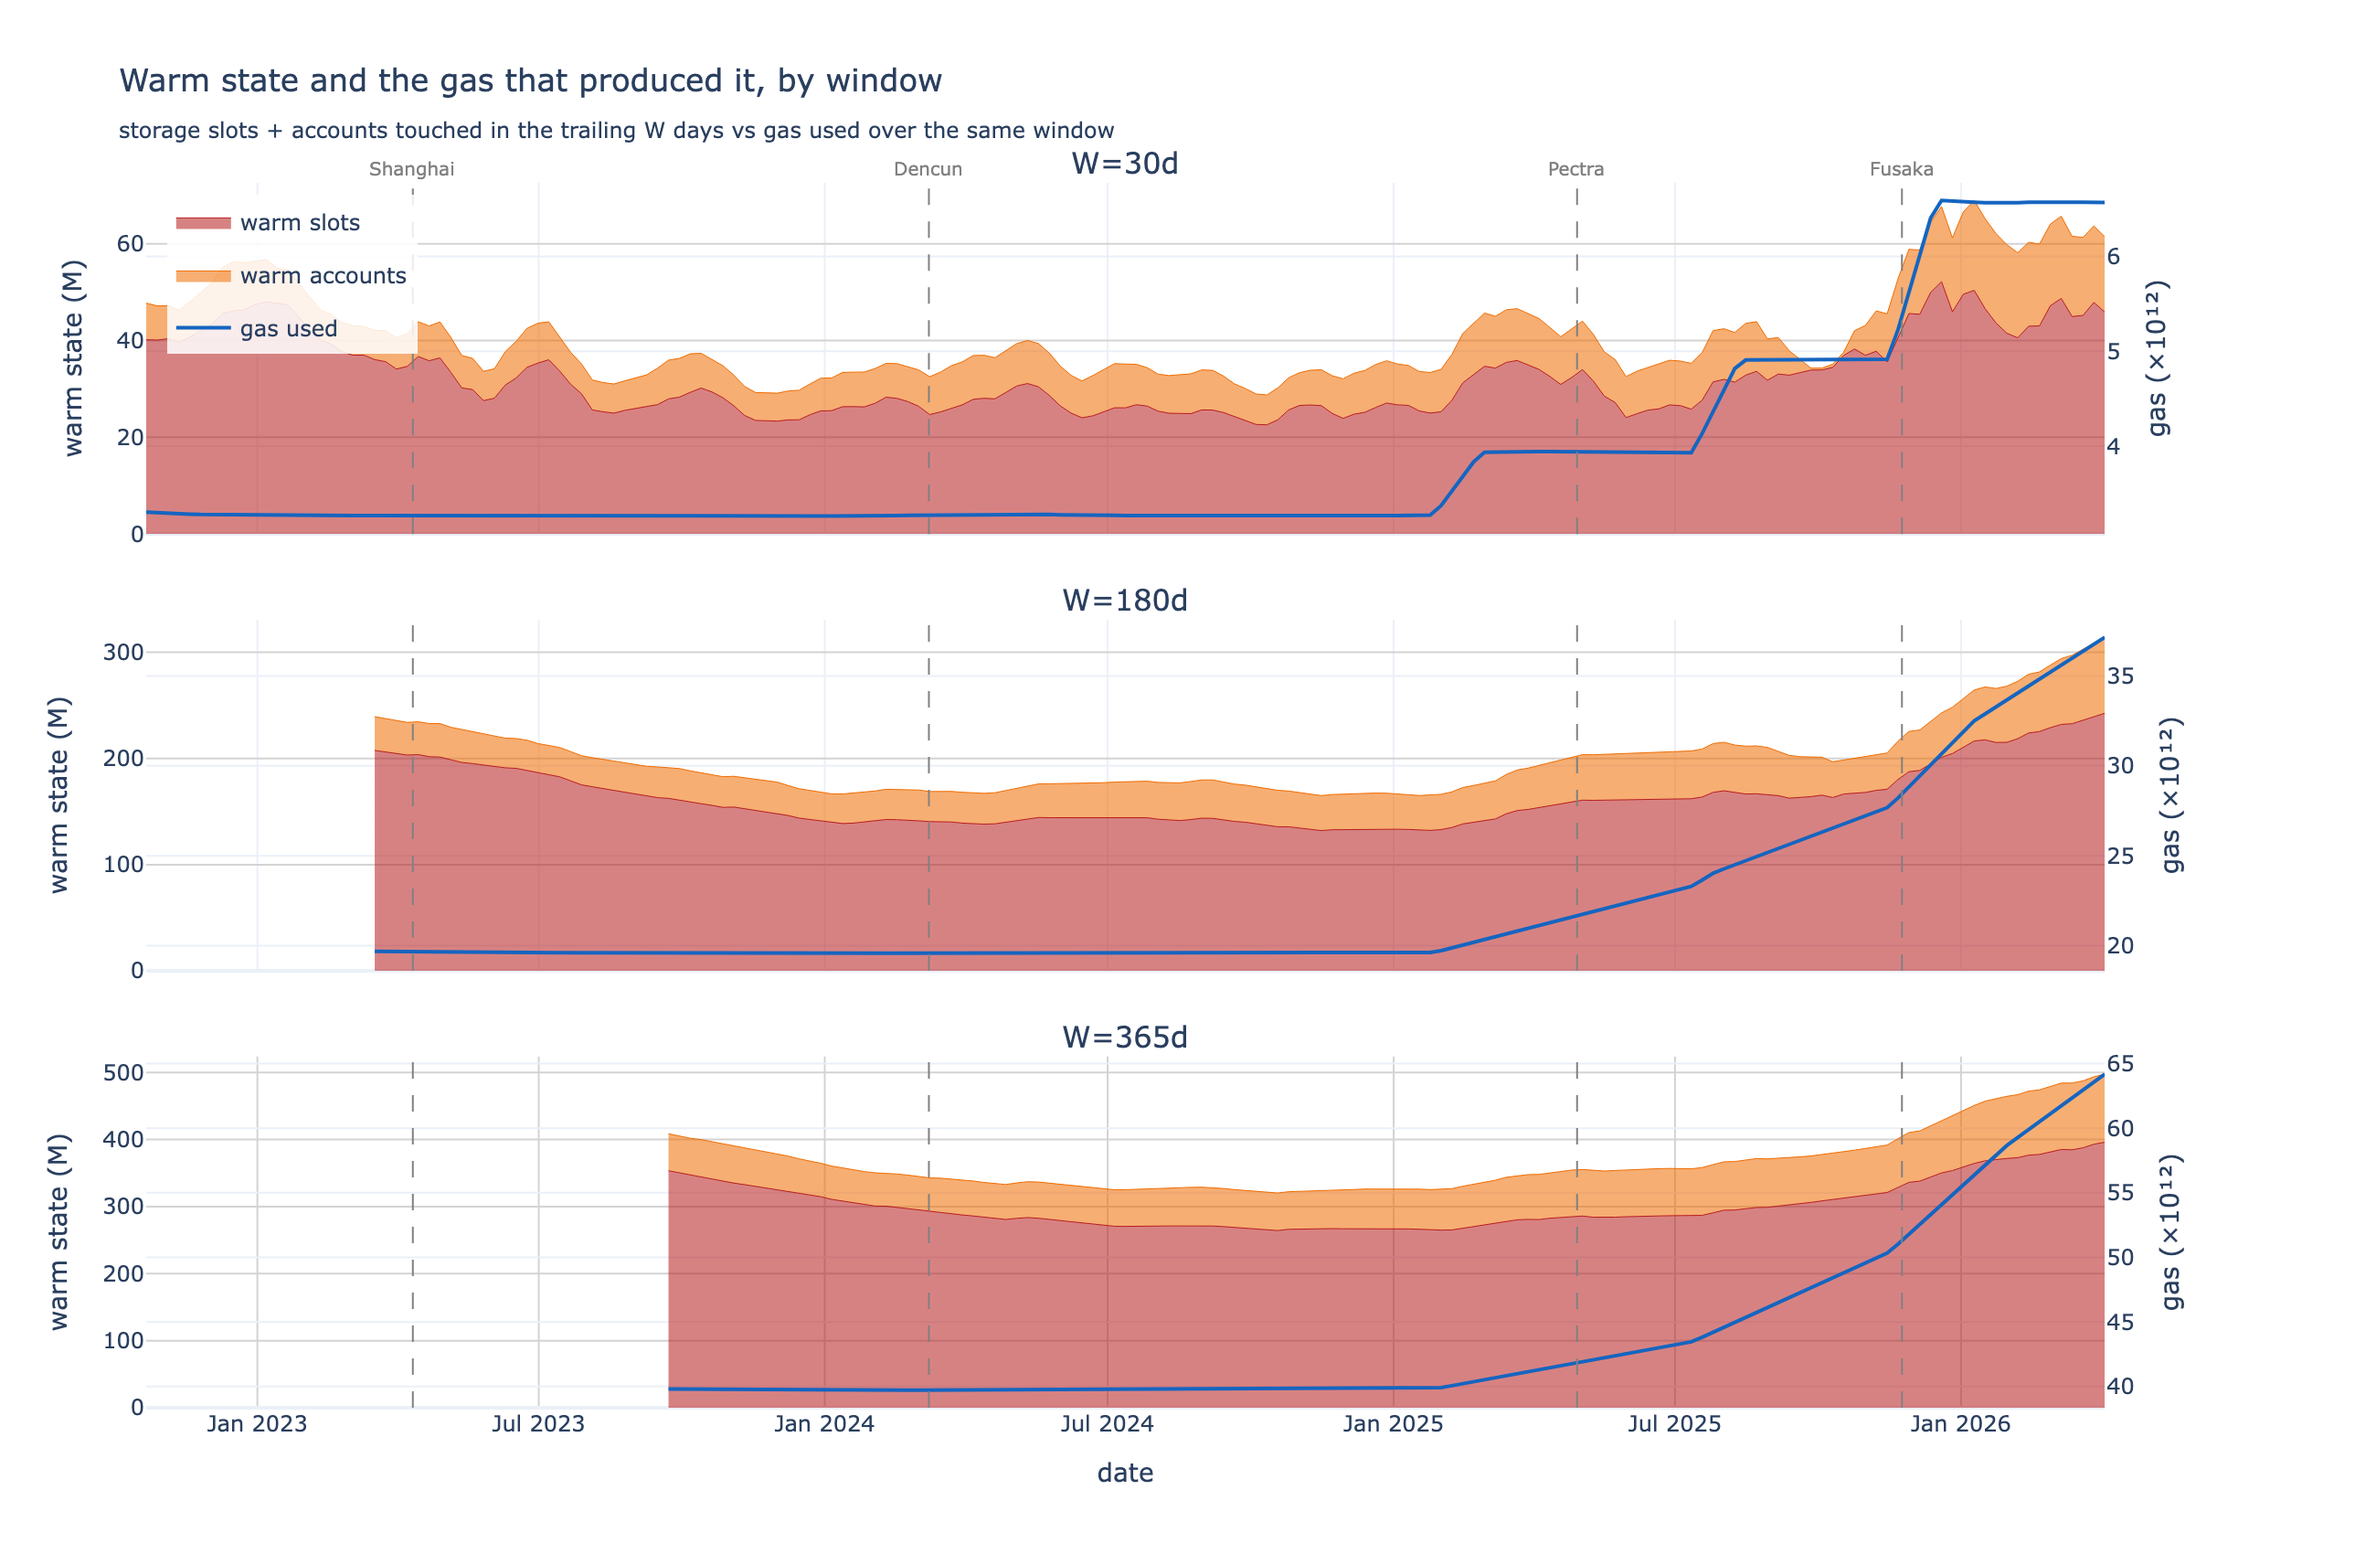
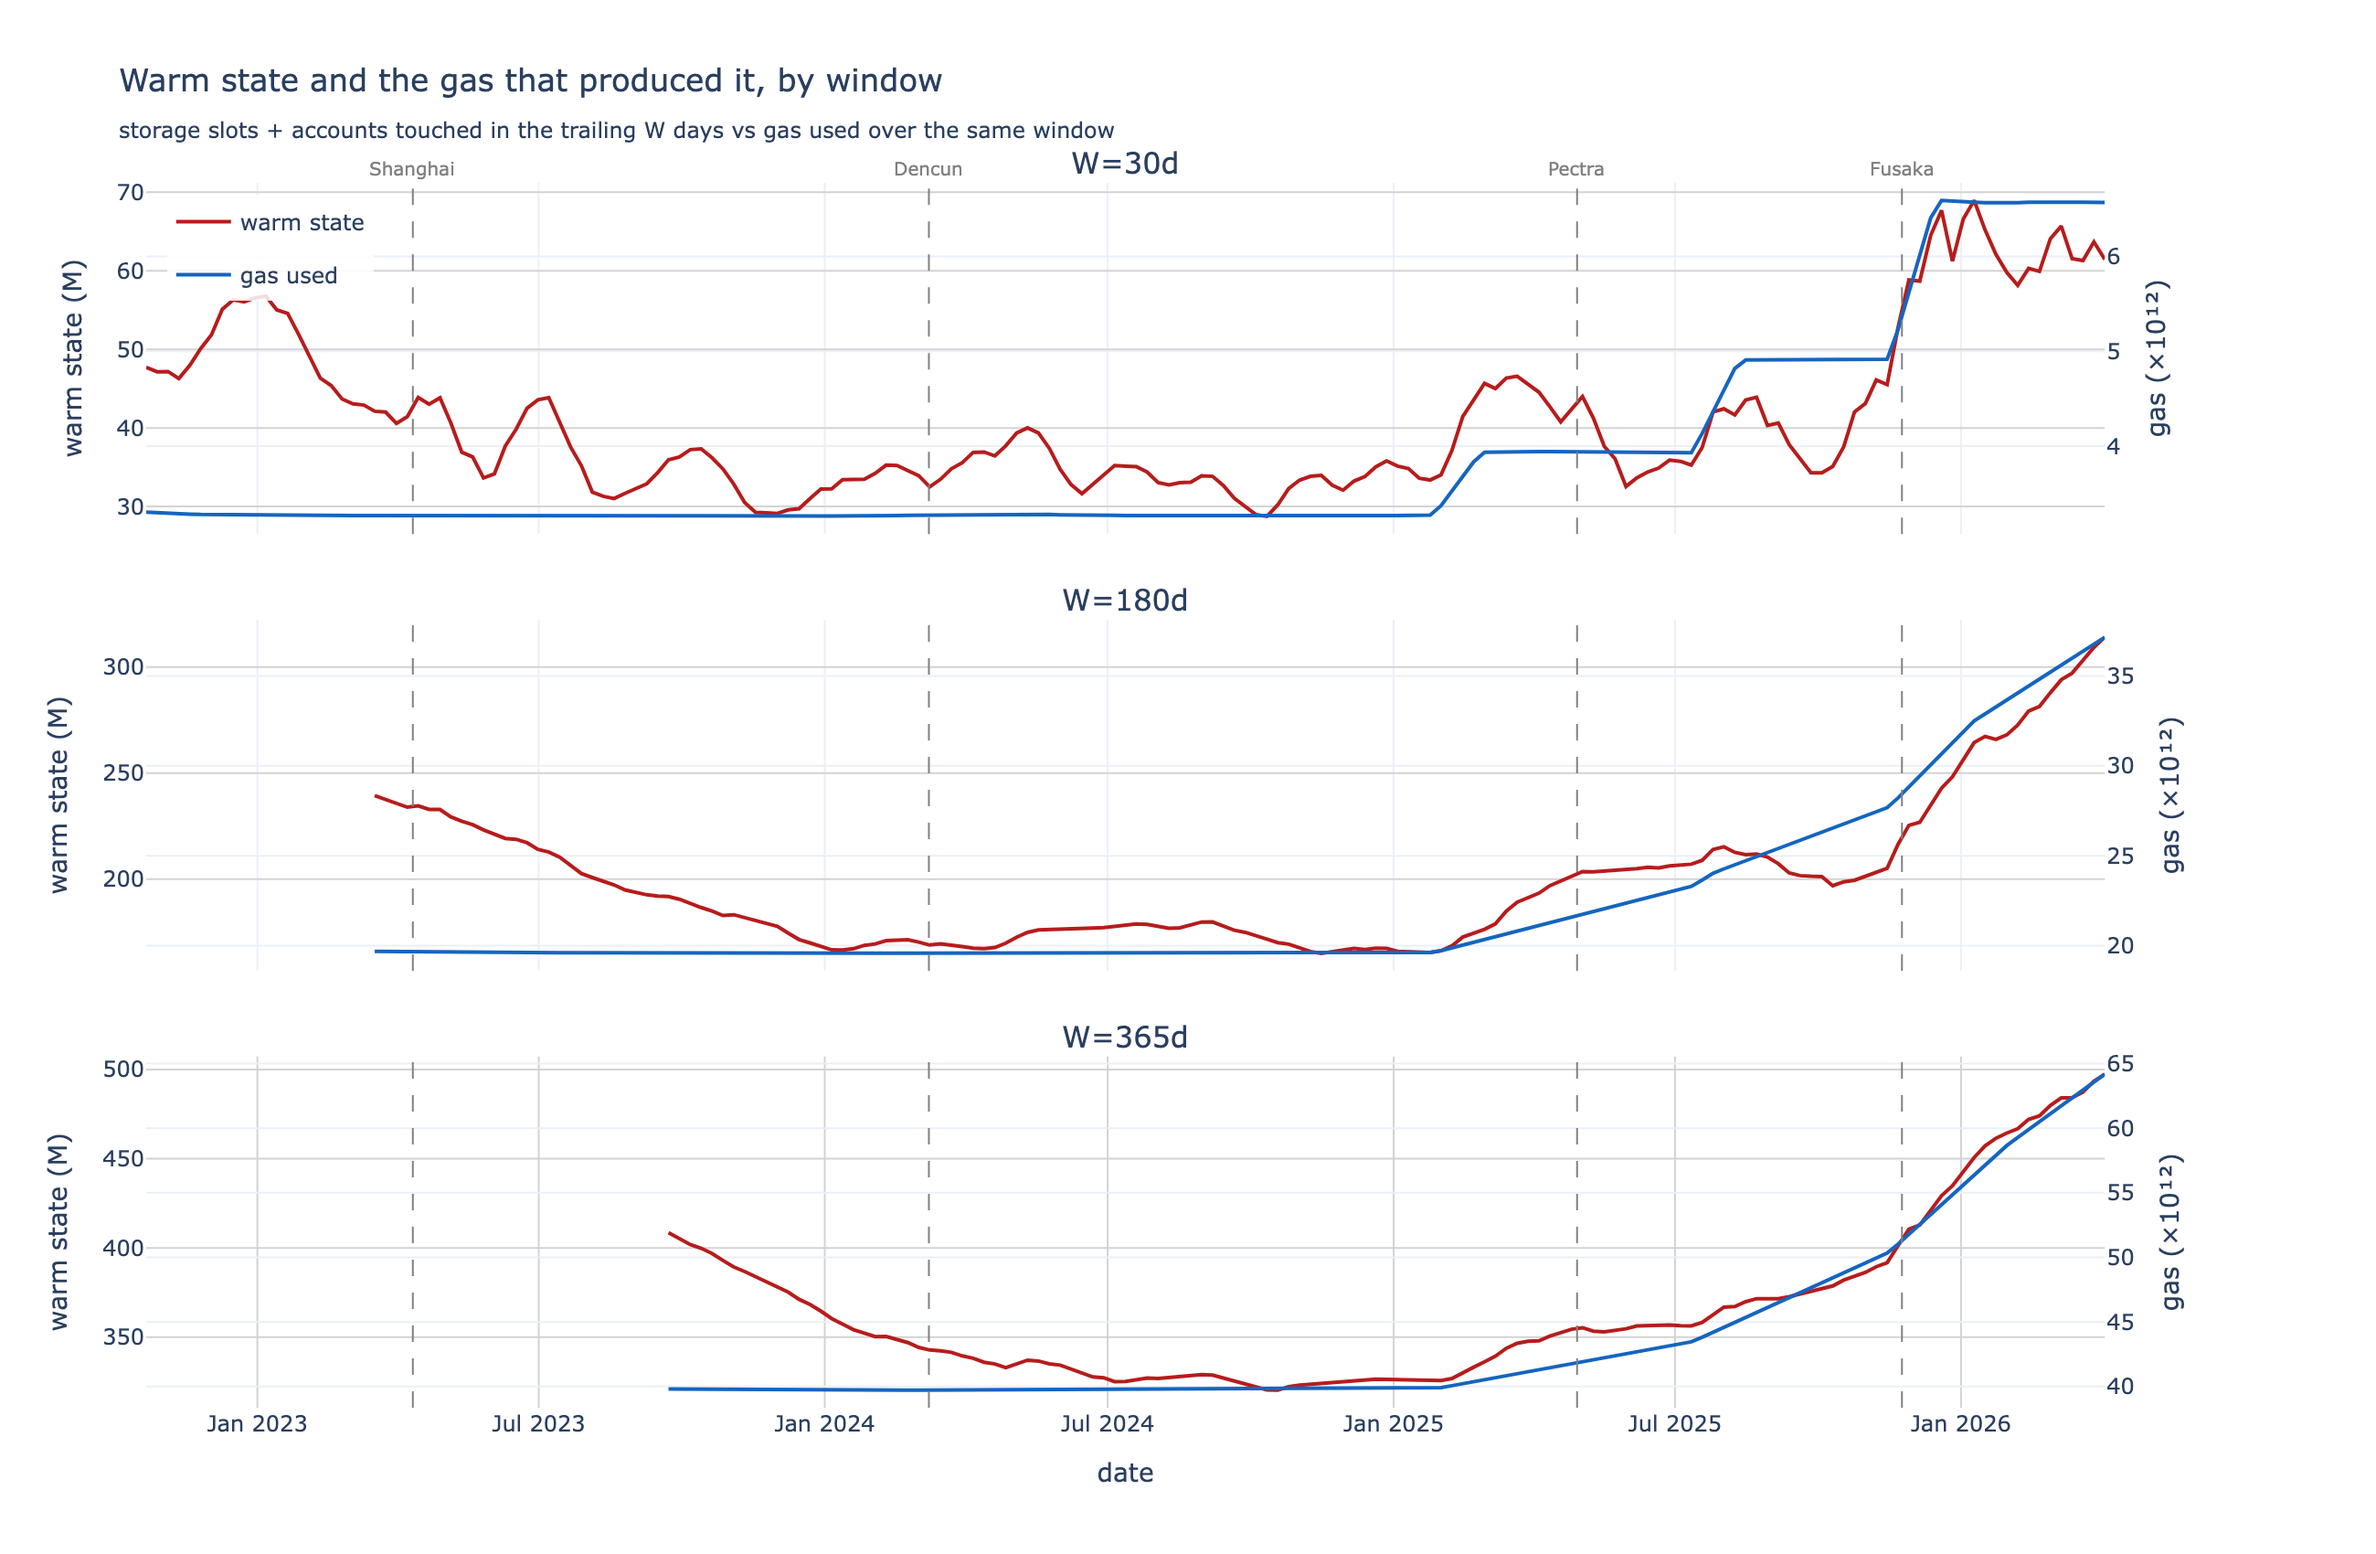
gas: warm state as a single combined line (slots + accounts)
Replaces the stacked area with one warm-state line per window.

diff --git a/state_access/analysis_gas.py b/state_access/analysis_gas.py
@@ -89,15 +89,10 @@ fig1 = make_subplots(rows=len(Q1_WINDOWS), cols=1, shared_xaxes=True, vertical_s
 for i, w in enumerate(Q1_WINDOWS, start=1):
     df = frames[w]
     first = i == 1
-    stack = f"warm{i}"  # unique per row so the area doesn't stack across panels
-    fig1.add_trace(go.Scatter(x=df["date"], y=df["unique_storage_slots"] / 1e6,
-                              name="warm slots", legendgroup="slots", showlegend=first,
-                              stackgroup=stack, line=dict(width=0.5, color="#B71C1C"),
-                              fillcolor="rgba(183,28,28,0.55)"), row=i, col=1, secondary_y=False)
-    fig1.add_trace(go.Scatter(x=df["date"], y=df["unique_accounts"] / 1e6,
-                              name="warm accounts", legendgroup="accounts", showlegend=first,
-                              stackgroup=stack, line=dict(width=0.5, color="#EF6C00"),
-                              fillcolor="rgba(239,108,0,0.55)"), row=i, col=1, secondary_y=False)
+    warm_state = (df["unique_storage_slots"] + df["unique_accounts"]) / 1e6
+    fig1.add_trace(go.Scatter(x=df["date"], y=warm_state,
+                              name="warm state", legendgroup="warm", showlegend=first,
+                              line=dict(color="#B71C1C", width=2)), row=i, col=1, secondary_y=False)
     fig1.add_trace(go.Scatter(x=df["date"], y=df["win_gas"] / 1e12,
                               name="gas used", legendgroup="gas", showlegend=first,
                               line=dict(color="#1565C0", width=2)), row=i, col=1, secondary_y=True)

diff --git a/state_access/REPORT.md b/state_access/REPORT.md
@@ -243,9 +243,9 @@ capacity expansion is the lever behind the recent cold-state decline.
 Plotting the total warm state — storage slots plus accounts touched in the trailing W days —
 against the gas used over the same window, at W = 30, 180, and 365 days, the warm state rises as the
 gas limit unlocks more room, clearest in the 2025–2026 ramp where gas steps up at the limit hikes
-and the warm state climbs with it. Accounts add a roughly quarter-to-third band on top of slots.
-The longer windows are U-shaped: through the flat-30M-limit era (2023–2024) the warm state *shrank*
-as activity concentrated, then turned up once the limit started rising.
+and the warm state climbs with it. The longer windows are U-shaped: through the flat-30M-limit era
+(2023–2024) the warm state *shrank* as activity concentrated, then turned up once the limit started
+rising.
 
 ![Warm set vs gas](data/gas_warm_set.png)
 
